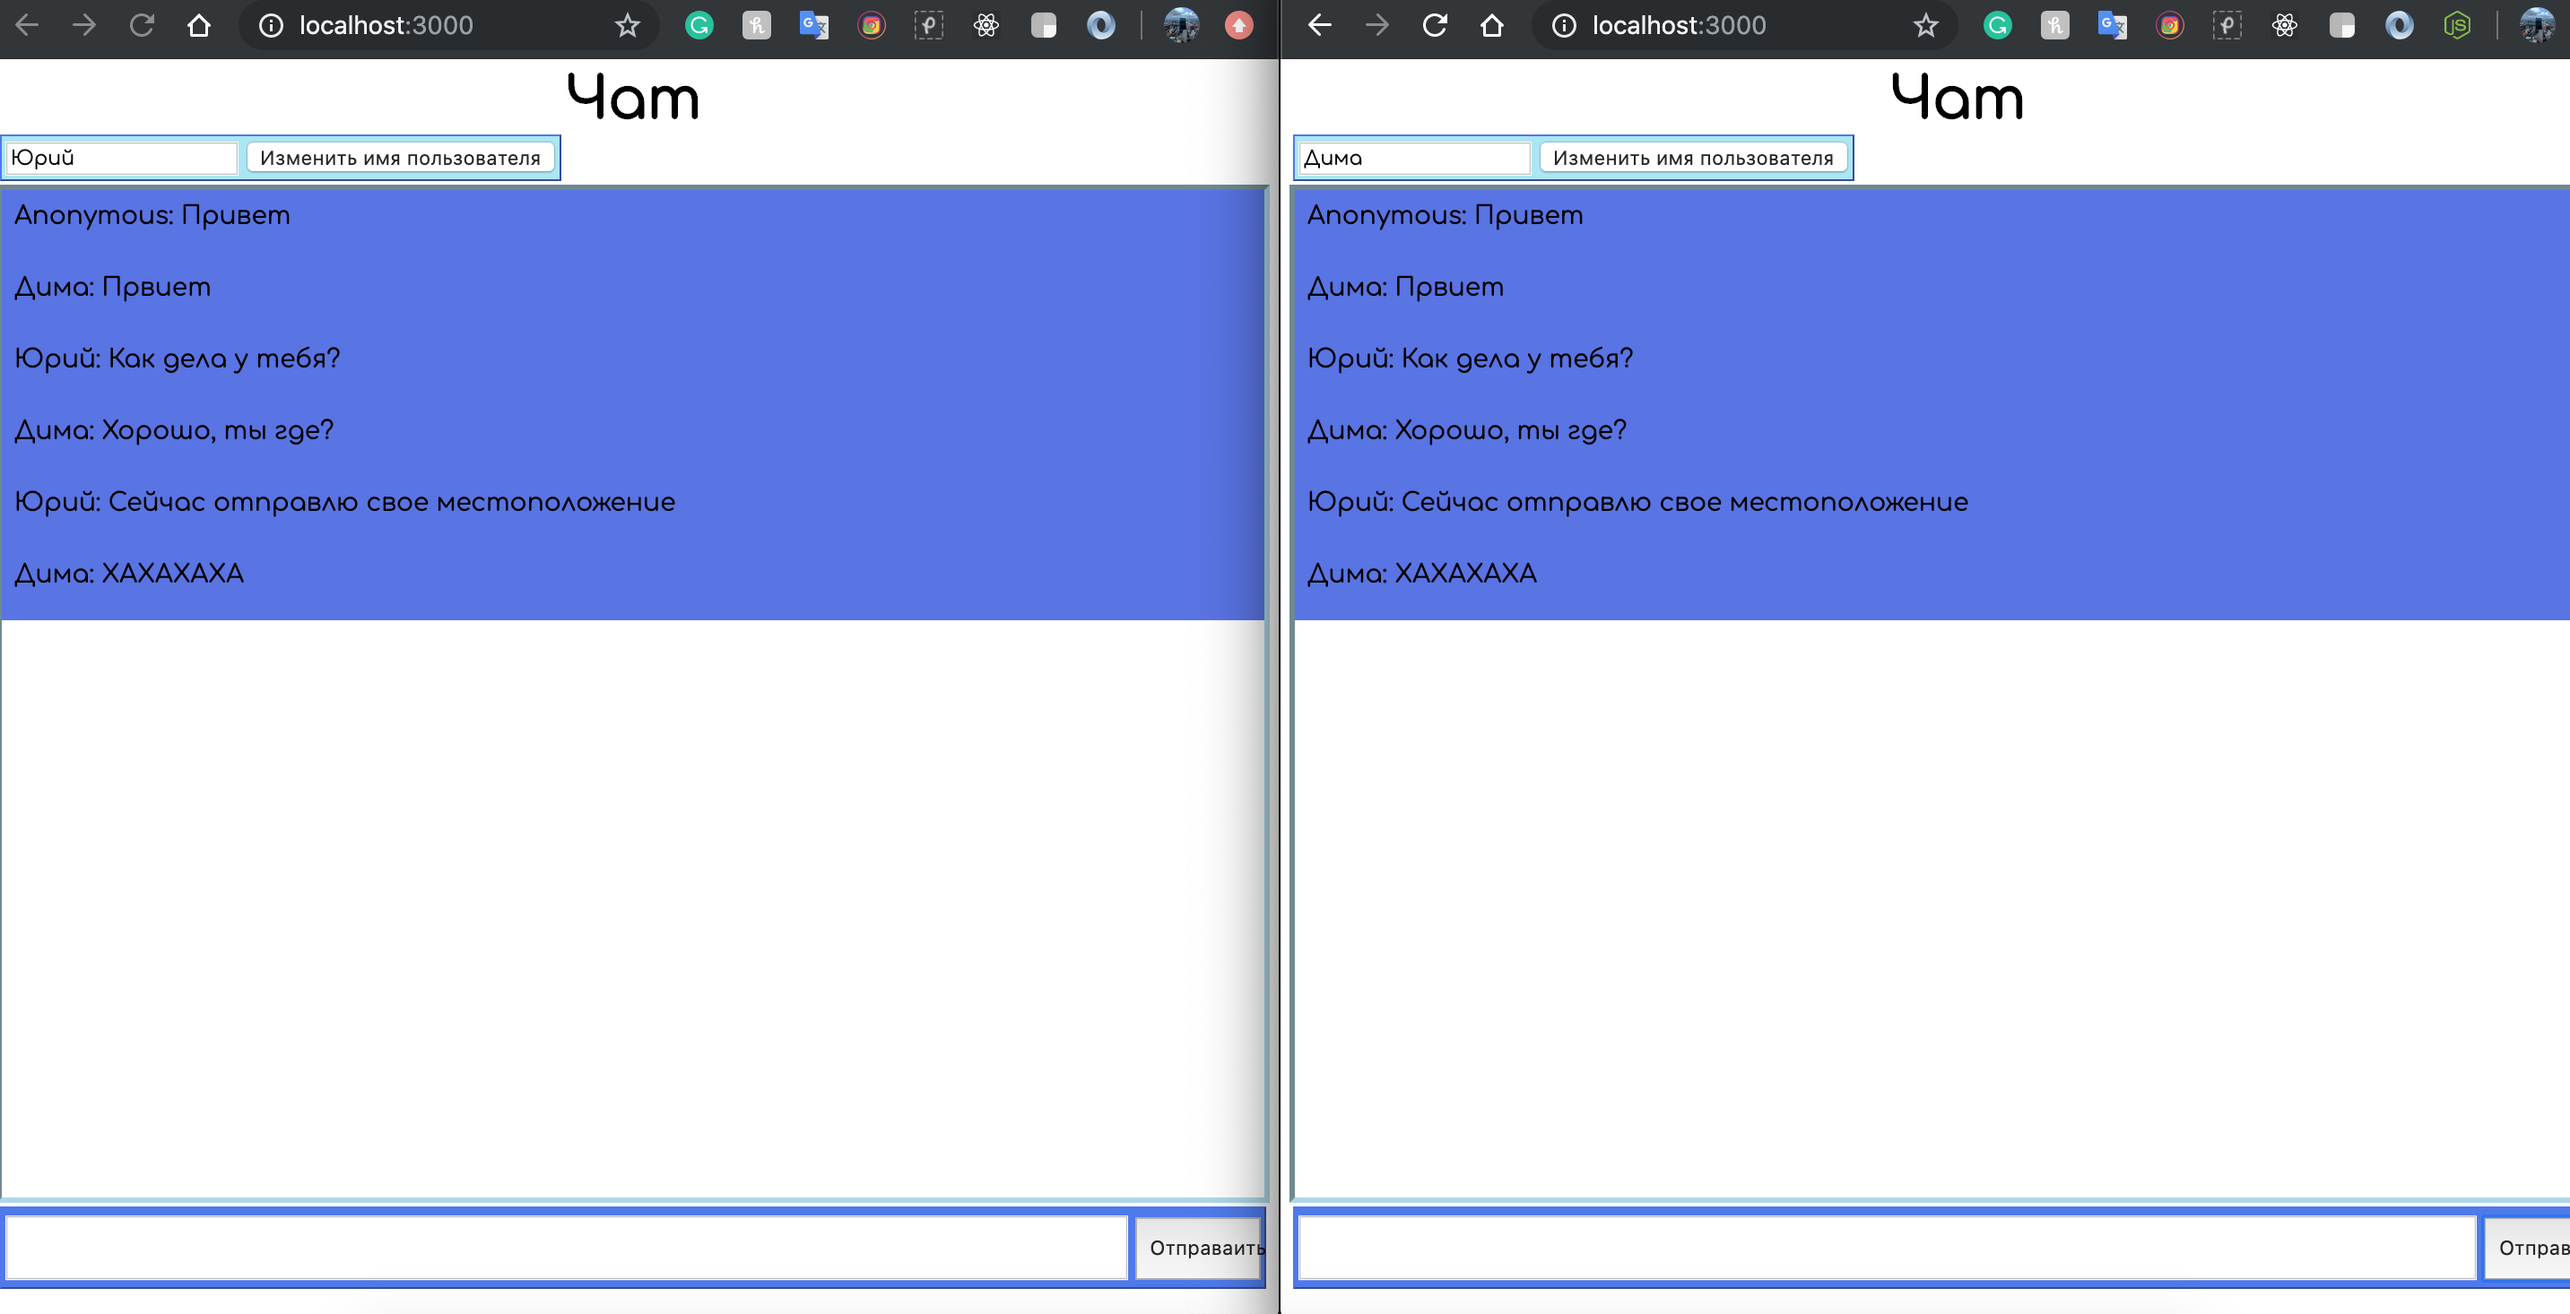
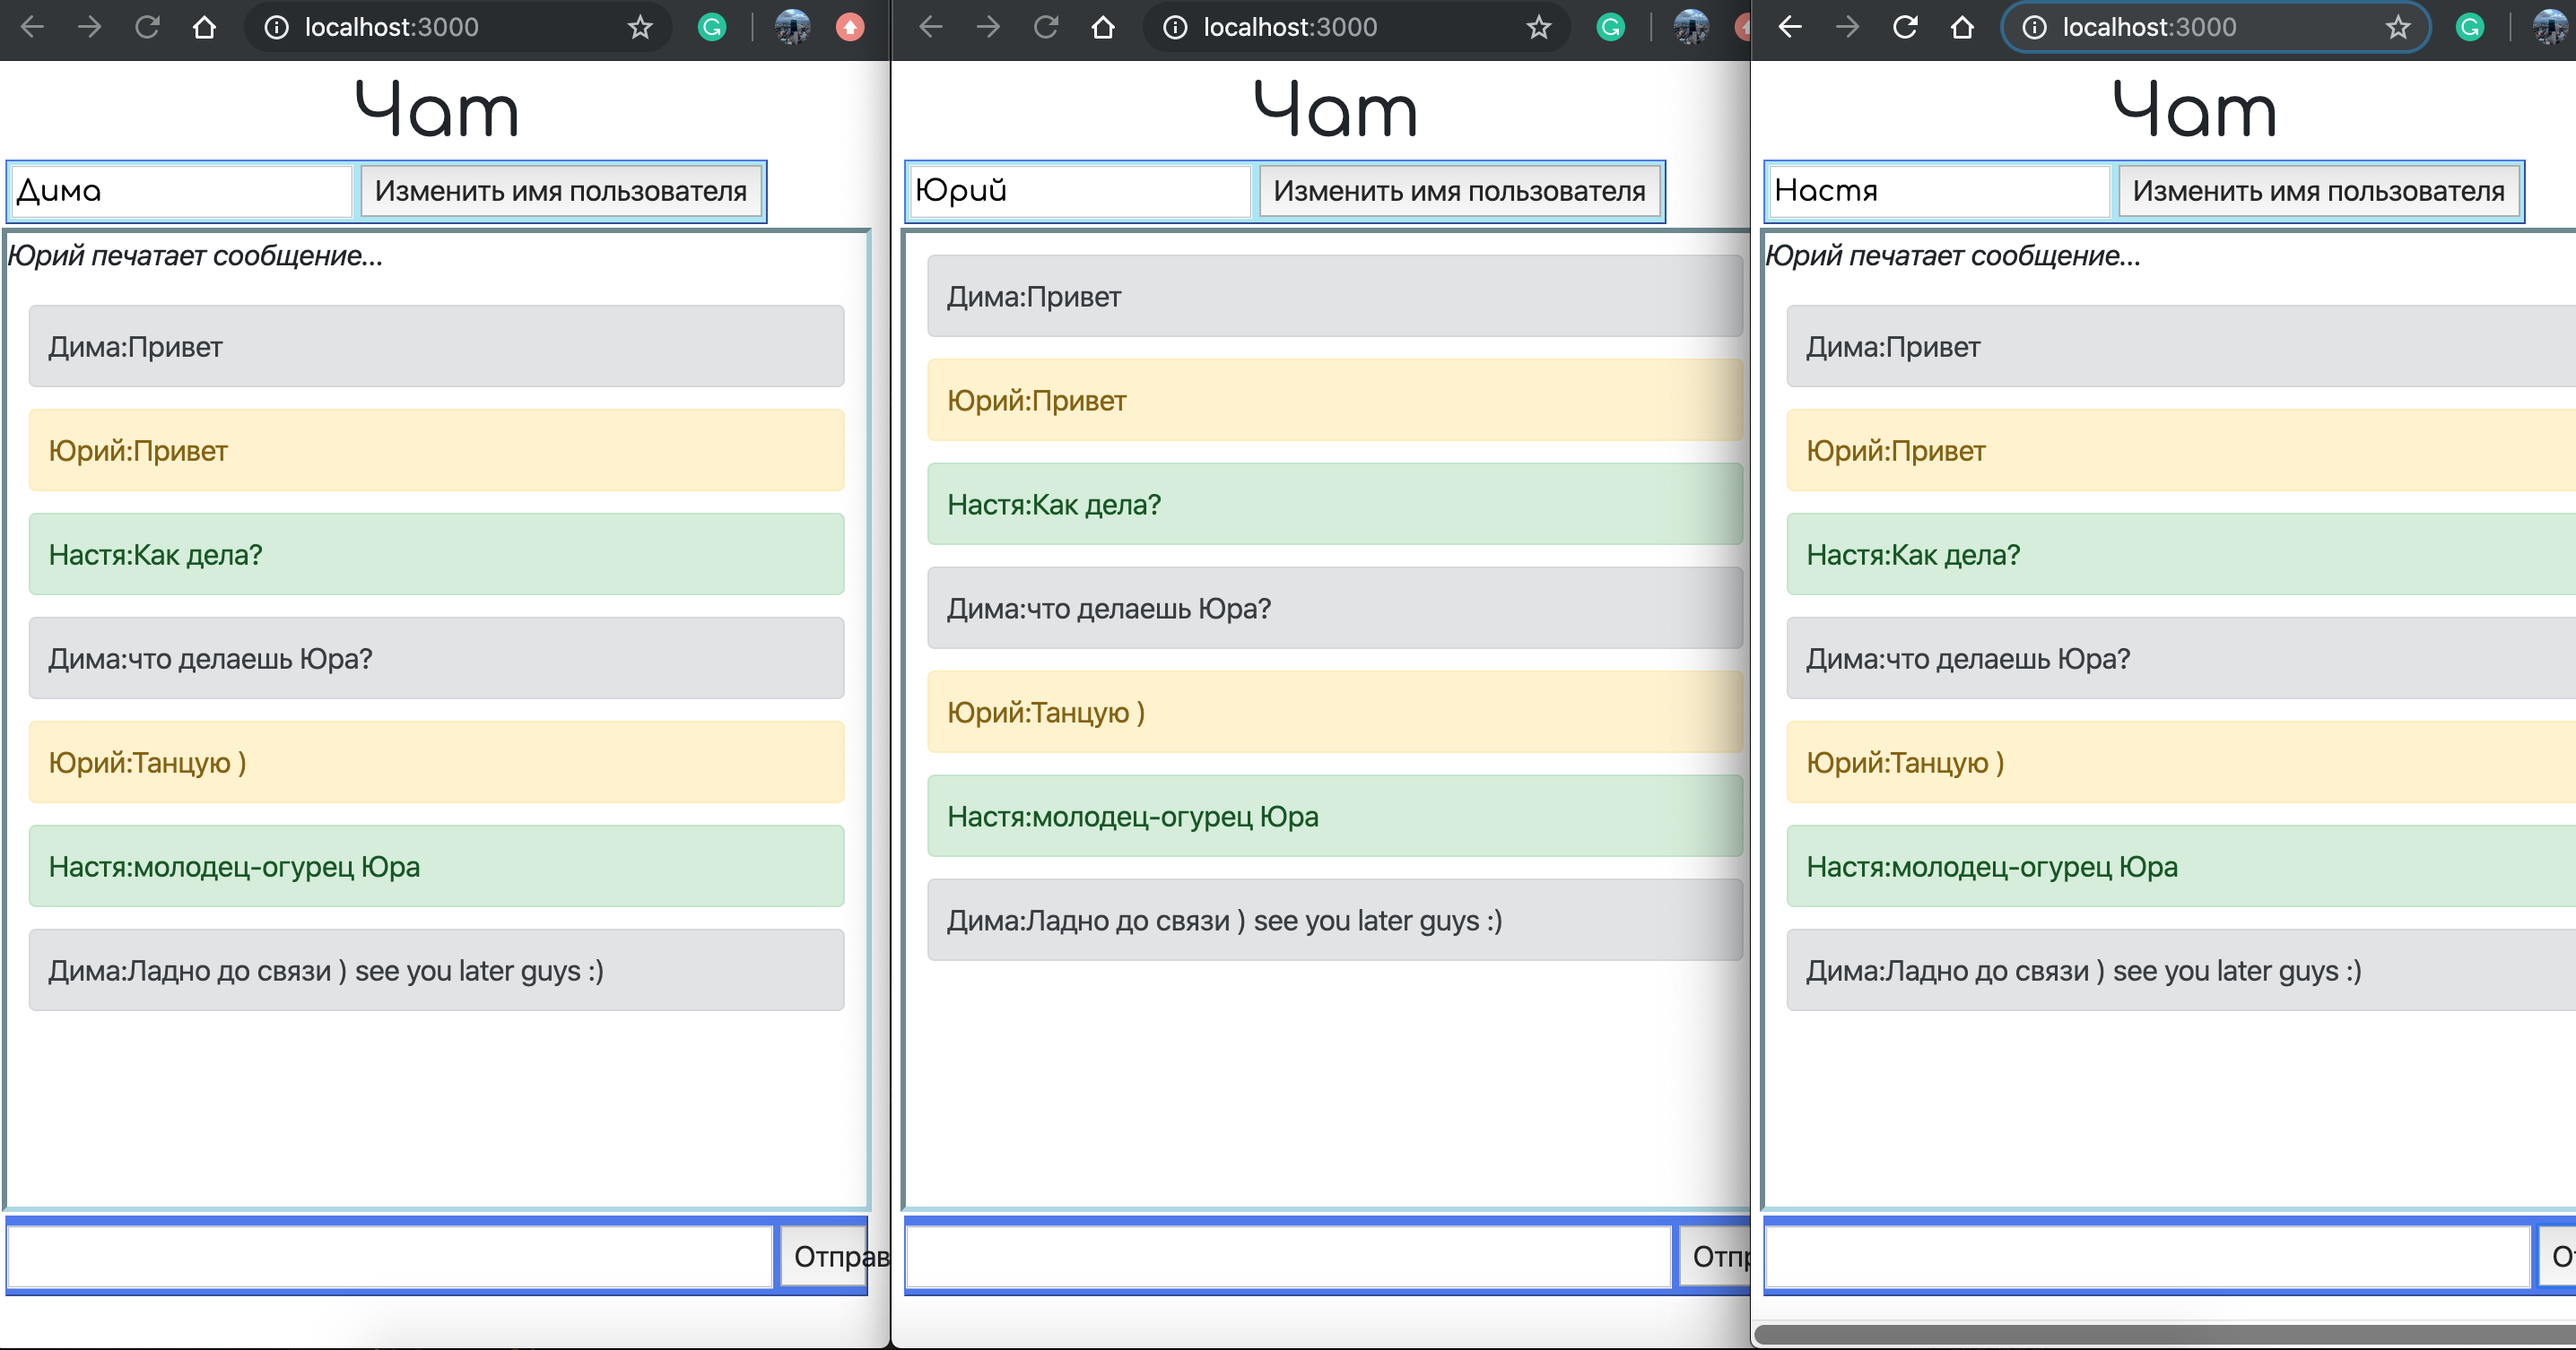
adding colors for each user and bootstrap

diff --git a/public/chat.js b/public/chat.js
@@ -1,33 +1,72 @@
-$(function(){
- var socket = io.connect('http://localhost:3000')
+$(function() {
+  var socket = io.connect("http://localhost:3000");
 
- var message = $("#message")
- var username = $("#username")
- var send_message = $("#send_message")
- var send_username = $("#send_username")
- var chatroom = $("#chatroom")
- var feedback = $("#feedback")
+  var message = $("#message");
+  var username = $("#username");
+  var send_message = $("#send_message");
+  var send_username = $("#send_username");
+  var chatroom = $("#chatroom");
+  var feedback = $("#feedback");
 
- send_message.click(function(){
-     socket.emit('new_message', {message : message.val()})
- })
+  send_message.click(() => {
+    socket.emit("new_message", {
+      message: message.val(),
+      className: alertClass
+    });
+  });
+  var min = 1;
+  var max = 6;
+  var random = Math.floor(Math.random() * (max - min)) + min;
 
- socket.on("new_message", (data) => {
-     feedback.html('');
-     message.val('');
-     chatroom.append("<p class='message'>" + data.username + ": " + data.message + "</p>")
- })
+  // Устаналиваем класс в переменную в зависимости от случайного числа
+  // Эти классы взяты из Bootstrap стилей
+  var alertClass;
+  switch (random) {
+    case 1:
+      alertClass = "secondary";
+      break;
+    case 2:
+      alertClass = "danger";
+      break;
+    case 3:
+      alertClass = "success";
+      break;
+    case 4:
+      alertClass = "warning";
+      break;
+    case 5:
+      alertClass = "info";
+      break;
+    case 6:
+      alertClass = "light";
+      break;
+  }
 
- send_username.click(function(){
-     socket.emit('change_username', {username : username.val()})
- })
+  socket.on("add_mess", data => {
+    feedback.html("");
+    message.val("");
+    chatroom.append(
+      "<div class='alert alert-" +
+        data.className +
+        "'<b>" +
+        data.username +
+        "</b>: " +
+        data.message +
+        "</div>"
+    );
+  });
 
- message.bind("keypress", () => {
-     socket.emit('typing')
- })
+  send_username.click(() => {
+    socket.emit("change_username", { username: username.val() });
+  });
 
- socket.on('typing', (data) => {
-     feedback.html("<p><i>" + data.username + " печатает сообщение..." + "</i></p>")
- })
+  message.bind("keypress", () => {
+    socket.emit("typing");
+  });
+
+  socket.on("typing", data => {
+    feedback.html(
+      "<p><i>" + data.username + " печатает сообщение..." + "</i></p>"
+    );
+  });
 });
-

diff --git a/app.js b/app.js
@@ -22,7 +22,7 @@ io.on('connection', (socket) => {
     })
 
     socket.on('new_message', (data) => {
-        io.sockets.emit('new_message', {message : data.message, username : socket.username});
+        io.sockets.emit('add_mess', {message : data.message, username : socket.username, className:data.className});
     })
 
     socket.on('typing', (data) => {

diff --git a/public/style.css b/public/style.css
@@ -12,7 +12,8 @@
   }
   
   html {
-      height: 95%;
+      height: 90%;
+      width:99%;
   }
   
   body {
@@ -77,6 +78,11 @@
       display: inline-block;
       height: 80%;
       width: 10%;
+  }
+  .alert{
+    padding: 10px;
+    margin: 12px;
+    width:auto;
   }
   
   p.message {
